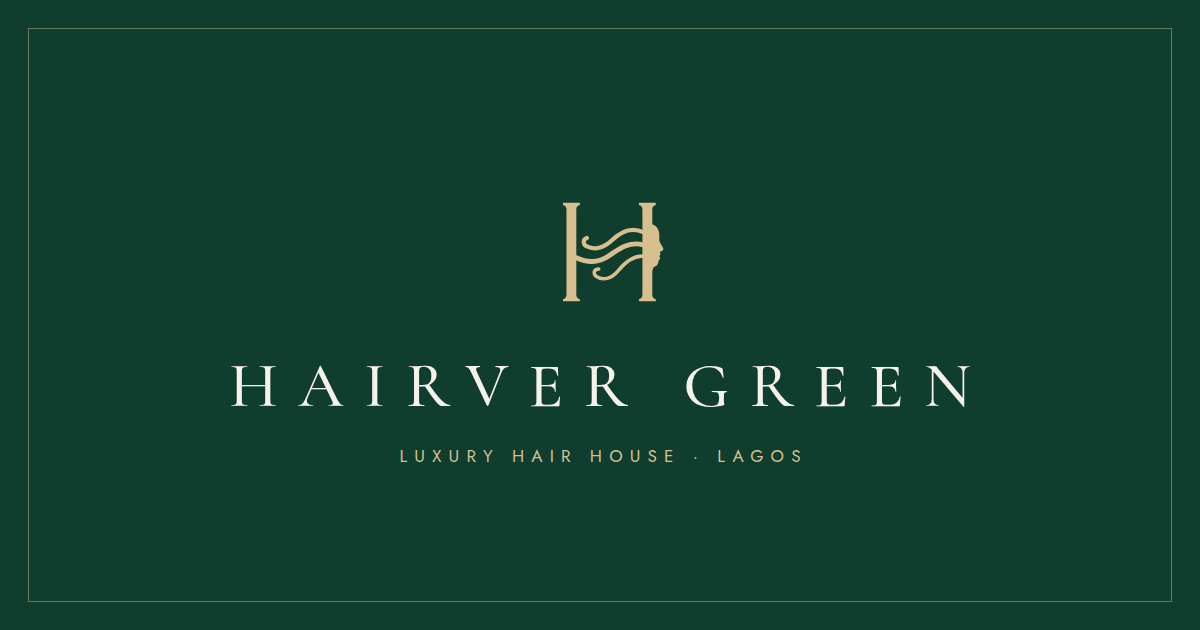
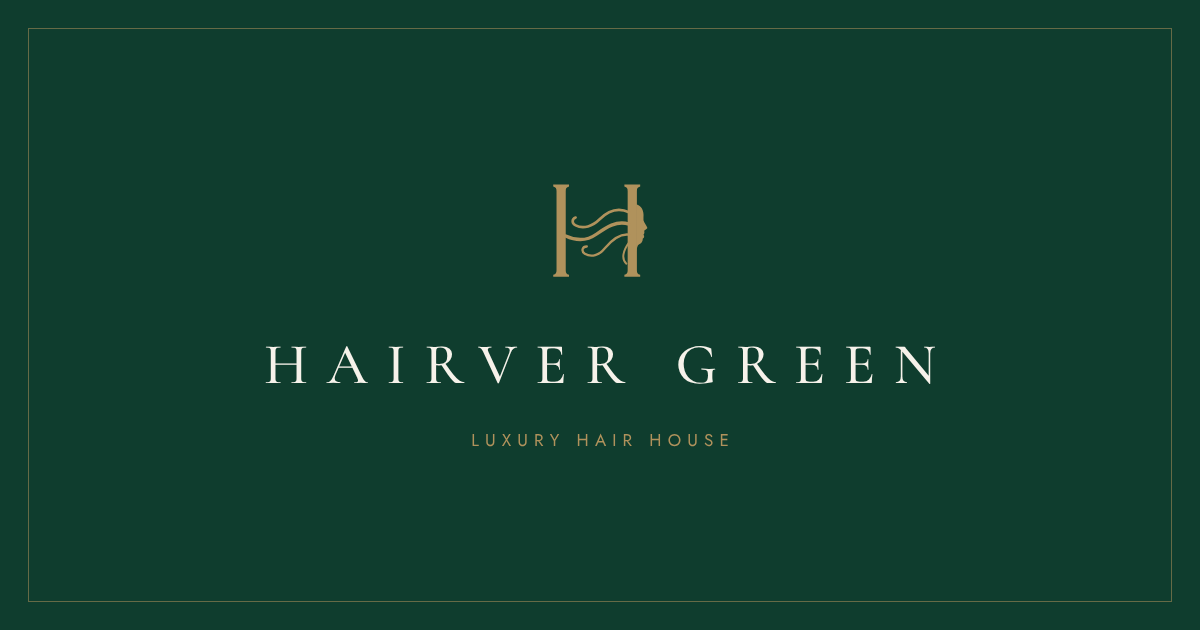
Antique gold branding, drop Lagos from brand; fix blocked Pay button
- Accent is now antique gold (#B0925C) with a deeper antique (#8C7142) for small text
- Tagline is 'Luxury Hair House' everywhere (logo, footer, invoice, emails, metadata, share image)
- Regenerated og-default.png and apple-icon.png
- Checkout: signed-in shoppers without a phone now see the Contact step, and a
  'Before you can pay' list explains anything blocking payment

Claude-Session: https://claude.ai/code/session_01L2FNrX7jLtXvLgC1MvqWQJ

diff --git a/src/components/checkout/checkout-client.tsx b/src/components/checkout/checkout-client.tsx
@@ -39,7 +39,11 @@ export function CheckoutClient({ initialCart, user, addresses, profile, requireP
   const [error, setError] = useState<string | null>(null);
   const [code, setCode] = useState('');
   const [summaryOpen, setSummaryOpen] = useState(false);
-  const [step, setStep] = useState<1 | 2 | 3>(user ? 2 : 1);
+  // Signed-in shoppers skip Contact only when we already have everything it asks for (incl. a phone, if required)
+  const [step, setStep] = useState<1 | 2 | 3>(() => {
+    const knownPhone = (profile?.phone ?? def?.phone ?? '').trim().length >= 7;
+    return user && /^[^@\s]+@[^@\s]+\.[^@\s]+$/.test(user.email ?? '') && (!requirePhone || knownPhone) ? 2 : 1;
+  });
 
   useEffect(() => { track('begin_checkout', { value: initialCart.total }); }, [initialCart.total]);
 
@@ -66,7 +70,10 @@ export function CheckoutClient({ initialCart, user, addresses, profile, requireP
     else setShip(blank(ship.country));
   };
 
-  const contactValid = /^[^@\s]+@[^@\s]+\.[^@\s]+$/.test(email) && (!requirePhone || phone.trim().length >= 7);
+  const emailValid = /^[^@\s]+@[^@\s]+\.[^@\s]+$/.test(email);
+  // A delivery phone also satisfies the phone requirement (the server accepts either)
+  const phoneValid = !requirePhone || phone.trim().length >= 7 || (ship.phone ?? '').trim().length >= 7;
+  const contactValid = emailValid && phoneValid;
   const addrValid = ship.first_name && ship.last_name && ship.line1.length >= 3 && ship.city && ship.country && (ship.country !== 'NG' || ship.state);
   const billValid = billingSame || (bill.first_name && bill.last_name && bill.line1 && bill.city && bill.country);
 
@@ -213,6 +220,20 @@ export function CheckoutClient({ initialCart, user, addresses, profile, requireP
                 {!billingSame && <AddressFields a={bill} onChange={(p) => setBill((b) => ({ ...b, ...p }))} compact />}
                 {allowNote && <label className="field"><span className="label">Order note (optional)</span><textarea value={note} onChange={(e) => setNote(e.target.value)} maxLength={1000} className="input !min-h-[80px]" placeholder="Anything we should know?" /></label>}
                 {error && <p className="bg-sale/10 p-3 text-[14px] text-sale" role="alert">{error}</p>}
+                {!paying && (() => {
+                  const missing: { text: string; fix: () => void }[] = [];
+                  if (!emailValid) missing.push({ text: 'Add your email address', fix: () => setStep(1) });
+                  if (!phoneValid) missing.push({ text: 'Add a phone number so the courier can reach you', fix: () => setStep(1) });
+                  if (!addrValid) missing.push({ text: 'Complete your delivery address', fix: () => setStep(2) });
+                  if (!billValid) missing.push({ text: 'Complete your billing address', fix: () => {} });
+                  if (q.has_errors) missing.push({ text: 'Some items in your bag need attention', fix: () => setSummaryOpen(true) });
+                  return missing.length ? (
+                    <div className="border border-sale/30 bg-sale/5 p-4 text-[14px]" role="alert">
+                      <p className="font-medium text-sale">Before you can pay:</p>
+                      <ul className="mt-2 space-y-1">{missing.map((m) => <li key={m.text}><button type="button" onClick={m.fix} className="text-left underline">{m.text}</button></li>)}</ul>
+                    </div>
+                  ) : null;
+                })()}
                 <button type="button" onClick={pay} disabled={paying || !billValid || q.has_errors || !contactValid || !addrValid} className="btn btn-primary btn-block !min-h-[56px]">
                   <Lock size={15} /> {paying ? 'Redirecting to Paystack…' : `Pay ${money(q.total)}`}
                 </button>

diff --git a/src/app/(store)/services/consultation/page.tsx b/src/app/(store)/services/consultation/page.tsx
@@ -1,7 +1,7 @@
 import { ConsultationForm } from '@/components/services/consultation-form';
 import { meta } from '@/lib/seo';
 
-export const generateMetadata = () => meta({ title: 'Book a Consultation', description: 'Book a hair consultation with Hairver Green — custom units, wig customisation and hair services in Lagos or online.', path: '/services/consultation' });
+export const generateMetadata = () => meta({ title: 'Book a Consultation', description: 'Book a hair consultation with Hairver Green — custom units, wig customisation and hair services in studio or online.', path: '/services/consultation' });
 
 export default async function Consultation({ searchParams }: PageProps<'/services/consultation'>) {
   const sp = await searchParams;
@@ -11,7 +11,7 @@ export default async function Consultation({ searchParams }: PageProps<'/service
       <div className="lg:col-span-5">
         <p className="eyebrow">Services</p>
         <h1 className="display-2 mt-3">{kind === 'service' ? 'Wig customisation & hair services' : 'Book a consultation'}</h1>
-        <p className="lede mt-5">Tell us about the look you want. A stylist will get back to you to schedule a call, a studio visit in Lagos, or a video consultation wherever you are.</p>
+        <p className="lede mt-5">Tell us about the look you want. A stylist will get back to you to schedule a call, a studio visit, or a video consultation wherever you are.</p>
         <ul className="mt-8 space-y-3 text-[15px] text-muted"><li>· Custom units designed with you</li><li>· Wig customisation — plucking, bleaching, cutting, colour</li><li>· Install and styling appointments</li><li>· Advice on texture, length and density</li></ul>
       </div>
       <div className="lg:col-span-6 lg:col-start-7"><ConsultationForm kind={kind} /></div>

diff --git a/src/lib/email.ts b/src/lib/email.ts
@@ -39,11 +39,11 @@ function layout(title: string, body: string, preheader = '') {
 <table role="presentation" width="600" cellpadding="0" cellspacing="0" style="max-width:600px;width:100%;background:#FFFDF8;border:1px solid #E3D9C4">
 <tr><td style="background:#0F3D2E;padding:28px;text-align:center">
 <div style="font-size:22px;letter-spacing:8px;color:#EFE6D2">HAIRVER GREEN</div>
-<div style="width:40px;height:1px;background:#D8C08E;margin:12px auto"></div>
-<div style="font-family:Arial,sans-serif;font-size:10px;letter-spacing:4px;color:#D8C08E">LUXURY HAIR HOUSE · LAGOS</div></td></tr>
+<div style="width:40px;height:1px;background:#B0925C;margin:12px auto"></div>
+<div style="font-family:Arial,sans-serif;font-size:10px;letter-spacing:4px;color:#B0925C">LUXURY HAIR HOUSE</div></td></tr>
 <tr><td style="padding:32px 28px;font-size:16px;line-height:1.6">${body}</td></tr>
 <tr><td style="padding:20px 28px;border-top:1px solid #E3D9C4;font-family:Arial,sans-serif;font-size:12px;color:#6B665C;text-align:center">
-Hairver Green · Lagos, Nigeria · <a href="${env.siteUrl}" style="color:#0F3D2E">${env.siteUrl.replace(/^https?:\/\//, '')}</a></td></tr>
+Hairver Green · <a href="${env.siteUrl}" style="color:#0F3D2E">${env.siteUrl.replace(/^https?:\/\//, '')}</a></td></tr>
 </table></td></tr></table></body></html>`;
 }
 

diff --git a/src/components/account/invoice.tsx b/src/components/account/invoice.tsx
@@ -9,7 +9,7 @@ export function Invoice({ order, items, store, packing }: { order: Order; items:
     <div className="mx-auto max-w-3xl bg-white p-8 text-[13px] text-ink print:p-0">
       <div className="mb-6 flex justify-end print:hidden"><PrintButton /></div>
       <header className="flex items-start justify-between border-b border-line pb-6">
-        <div><p className="wordmark text-[20px]">Hairver Green</p><p className="mt-1 text-[11px] uppercase tracking-[0.2em] text-muted">Luxury Hair House · Lagos</p>
+        <div><p className="wordmark text-[20px]">Hairver Green</p><p className="mt-1 text-[11px] uppercase tracking-[0.2em] text-muted">Luxury Hair House</p>
           <p className="mt-3 text-muted">{store.address}<br />{store.email}{store.phone && <><br />{store.phone}</>}</p></div>
         <div className="text-right"><p className="font-display text-[28px]">{packing ? 'Packing slip' : 'Invoice'}</p><p className="mt-1">Order {order.order_number}</p><p className="text-muted">{formatDate(order.paid_at ?? order.placed_at)}</p>
           {!packing && <p className="mt-1 text-muted">Payment: {order.payment_status}{order.payment_channel ? ` · ${order.payment_channel}` : ''}</p>}</div>

diff --git a/src/lib/data/content.ts b/src/lib/data/content.ts
@@ -9,7 +9,7 @@ const REVALIDATE = 300;
 
 export const DEFAULT_THEME: ThemeSettings = {
   colors: {
-    primary: '#0F3D2E', primary_contrast: '#F6F2EA', accent: '#D8C08E', accent_strong: '#B0925C', background: '#F6F2EA',
+    primary: '#0F3D2E', primary_contrast: '#F6F2EA', accent: '#B0925C', accent_strong: '#8C7142', background: '#F6F2EA',
     surface: '#FFFDF8', panel: '#EFE6D2', text: '#1B1A17', muted: '#6B665C', border: '#E3D9C4', sale: '#8A2E2E',
   },
   fonts: { display: 'Cormorant Garamond', body: 'Jost' }, radius: 'none', button_style: 'solid', product_card: 'editorial',
@@ -17,7 +17,7 @@ export const DEFAULT_THEME: ThemeSettings = {
 };
 
 export const DEFAULT_STORE: StoreSettings = {
-  name: 'Hairver Green', short_name: 'HairverGreen', tagline: 'Luxury Hair House · Lagos', email: 'hello@hairvergreen.com', phone: '',
+  name: 'Hairver Green', short_name: 'HairverGreen', tagline: 'Luxury Hair House', email: 'hello@hairvergreen.com', phone: '',
   whatsapp: '', address: 'Lagos, Nigeria', city: 'Lagos', country: 'NG', instagram: 'https://www.instagram.com/hairvergreen/', tiktok: '',
   support_hours: '',
 };

diff --git a/src/components/product/product-view.tsx b/src/components/product/product-view.tsx
@@ -206,7 +206,7 @@ export function ProductView({ product, attrs, compact = false, initialOptions }:
         {!compact && (
           <ul className="mt-8 grid gap-3 border-t border-line pt-6 text-[13px] text-muted">
             <li className="flex items-center gap-3"><ShieldCheck size={17} strokeWidth={1.3} className="text-accent-strong" /> Secure checkout with Paystack — card, transfer, USSD & more</li>
-            <li className="flex items-center gap-3"><Truck size={17} strokeWidth={1.3} className="text-accent-strong" /> Ships from Lagos · delivery options shown at checkout</li>
+            <li className="flex items-center gap-3"><Truck size={17} strokeWidth={1.3} className="text-accent-strong" /> Ships worldwide · delivery options shown at checkout</li>
             <li className="flex items-center gap-3"><RefreshCcw size={17} strokeWidth={1.3} className="text-accent-strong" /> <Link href="/policies/refund-policy" className="underline">Returns & exchanges policy</Link></li>
           </ul>
         )}

diff --git a/src/components/seo/json-ld.tsx b/src/components/seo/json-ld.tsx
@@ -12,7 +12,7 @@ export function OrganizationJsonLd({ store }: { store: StoreSettings }) {
       '@context': 'https://schema.org',
       '@graph': [
         { '@type': 'Organization', '@id': `${env.siteUrl}/#org`, name: 'Hairver Green', url: env.siteUrl, logo: `${env.siteUrl}/icon.svg`, sameAs,
-          address: { '@type': 'PostalAddress', addressLocality: store.city || 'Lagos', addressCountry: store.country || 'NG' },
+          address: { '@type': 'PostalAddress', ...(store.city ? { addressLocality: store.city } : {}), addressCountry: store.country || 'NG' },
           ...(store.email ? { email: store.email } : {}), ...(store.phone ? { telephone: store.phone } : {}) },
         { '@type': 'WebSite', '@id': `${env.siteUrl}/#website`, url: env.siteUrl, name: 'Hairver Green', publisher: { '@id': `${env.siteUrl}/#org` },
           potentialAction: { '@type': 'SearchAction', target: `${env.siteUrl}/search?q={search_term_string}`, 'query-input': 'required name=search_term_string' } },

diff --git a/src/app/(store)/services/custom-units/page.tsx b/src/app/(store)/services/custom-units/page.tsx
@@ -7,7 +7,7 @@ import { Reveal } from '@/components/ui/reveal';
 import { meta } from '@/lib/seo';
 
 export const revalidate = 300;
-export const generateMetadata = () => meta({ title: 'Custom Units — Made Around You', description: 'Design a custom wig unit with Hairver Green in Lagos: choose hair, texture, length, lace, density, colour and finish. Confirmed with you before production.', path: '/services/custom-units' });
+export const generateMetadata = () => meta({ title: 'Custom Units — Made Around You', description: 'Design a custom wig unit with Hairver Green: choose hair, texture, length, lace, density, colour and finish. Confirmed with you before production.', path: '/services/custom-units' });
 
 export default async function CustomUnits() {
   const [product, { data: cfgRow }] = await Promise.all([

diff --git a/src/app/(store)/shop/page.tsx b/src/app/(store)/shop/page.tsx
@@ -8,7 +8,7 @@ export async function generateMetadata({ searchParams }: PageProps<'/shop'>) {
   const t = typeof sp.texture === 'string' ? attrs.find((a) => a.attribute === 'texture' && a.slug === sp.texture)?.label : null;
   const l = typeof sp.length === 'string' ? attrs.find((a) => a.attribute === 'length' && a.slug === sp.length)?.label : null;
   const title = t ? `${t} Hair & Wigs` : l ? `${l} Hair & Wigs` : 'Shop All Hair & Wigs';
-  return meta({ title, description: 'Luxury virgin hair, donor hair, ready-to-wear wigs and custom units from Hairver Green, Lagos.', path: '/shop' });
+  return meta({ title, description: 'Luxury virgin hair, donor hair, ready-to-wear wigs and custom units from Hairver Green.', path: '/shop' });
 }
 
 export default async function Shop({ searchParams }: PageProps<'/shop'>) {

diff --git a/src/app/layout.tsx b/src/app/layout.tsx
@@ -37,8 +37,8 @@ const bodoni = localFont({
 
 export async function generateMetadata(): Promise<Metadata> {
   const s = isConfigured() ? await getSettings() : null;
-  const title = s?.seo.default_title || 'Hairver Green — Luxury Hair House, Lagos';
-  const description = s?.seo.default_description || 'Premium virgin hair, donor hair, custom units and ready-to-wear wigs, crafted in Lagos and delivered worldwide.';
+  const title = s?.seo.default_title || 'Hairver Green — Luxury Hair House';
+  const description = s?.seo.default_description || 'Premium virgin hair, donor hair, custom units and ready-to-wear wigs, hand-finished and delivered worldwide.';
   return {
     metadataBase: new URL(env.siteUrl),
     title: { default: title, template: s?.seo.title_template || '%s · Hairver Green' },

diff --git a/src/components/layout/site-footer.tsx b/src/components/layout/site-footer.tsx
@@ -13,7 +13,7 @@ export function SiteFooter({ menus, store }: { menus: Record<string, MenuItem[]>
         <div className="lg:col-span-4">
           <Mark className="h-14 w-auto text-accent" />
           <p className="wordmark mt-5 text-[18px]">Hairver Green</p>
-          <p className="mt-2 text-[11px] uppercase tracking-[0.3em] text-accent">Luxury Hair House · Lagos</p>
+          <p className="mt-2 text-[11px] uppercase tracking-[0.3em] text-accent">Luxury Hair House</p>
           <p className="mt-8 font-display text-[26px] leading-tight">Be the first to know.</p>
           <p className="mt-2 text-[14px] text-primary-contrast/70">New drops, exclusive offers and hair care notes.</p>
           <div className="mt-5 max-w-md"><NewsletterForm dark source="footer" /></div>

diff --git a/src/app/(store)/journal/page.tsx b/src/app/(store)/journal/page.tsx
@@ -6,7 +6,7 @@ import { formatDate, cn } from '@/lib/utils';
 import { meta } from '@/lib/seo';
 
 export const revalidate = 300;
-export const generateMetadata = () => meta({ title: 'The Hair Journal', description: 'Hair care, wig care, styling and hair education from the Hairver Green studio in Lagos.', path: '/journal' });
+export const generateMetadata = () => meta({ title: 'The Hair Journal', description: 'Hair care, wig care, styling and hair education from the Hairver Green studio.', path: '/journal' });
 
 export default async function Journal({ searchParams }: PageProps<'/journal'>) {
   const sp = await searchParams;
